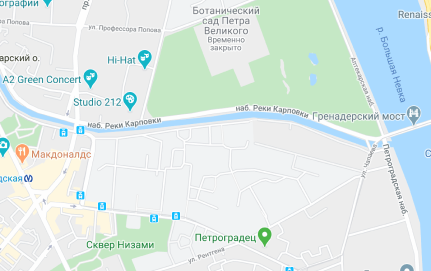
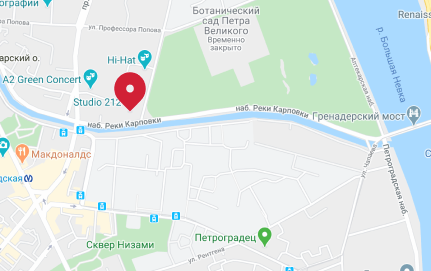
Добавит компонент кнопки, поправит карту

Changed region(s): [[0.2413, 0.2657, 0.3619, 0.4133]]

diff --git a/src/components/article/article.jsx b/src/components/article/article.jsx
@@ -2,6 +2,7 @@ import React from 'react';
 import cn from 'classnames';
 import styles from './article.module.scss';
 import Slider from '../slider/slider';
+import Button from '../button/button';
 
 function Article() {
   const articleContainer = cn('container', styles.section);
@@ -11,7 +12,7 @@ function Article() {
       <h2 className='visually-hidden'>Основная информация</h2>
       <article className={styles.article}>
         <div className={styles.left}>
-          <Slider />
+          <Slider/>
         </div>
         <div>
           <h3 className={styles.title}>Марпех 11</h3>
@@ -25,7 +26,10 @@ function Article() {
             <span className={styles.newPrice}>2 300 000 ₽</span>
             <span className={styles.oldPrice}>2  400 000 ₽</span>
           </div>
-          <button className={styles.redButton} type='button'>Оставить заявку</button>
+          <div className={styles.links}>
+            <Button red className={styles.button} type='button'>Оставить заявку</Button>
+            <Button white href='/#' className={styles.button}>В кредит от 11 000 ₽</Button>
+          </div>
         </div>
       </article>
     </section>

diff --git a/src/components/tabs/tabs.jsx b/src/components/tabs/tabs.jsx
@@ -2,7 +2,7 @@ import React from 'react';
 import styles from './tabs.module.scss';
 import cn from 'classnames';
 import TabBar from '../tab-bar/tab-bar';
-import TabBarItem from '../tab-bar-item/tab-bar-item';
+import TabItem from '../tab-item/tab-item';
 import Features from '../features/features';
 import Reviews from '../reviews/reviews';
 import Contacts from './../contacts/contacts';
@@ -14,15 +14,15 @@ function Tabs() {
     <section className={sectionClass}>
       <h2 className='visually-hidden'>Дополнительная информация</h2>
       <TabBar>
-        <TabBarItem label={'Характеристики'}>
+        <TabItem label={'Характеристики'}>
           <Features/>
-        </TabBarItem>
-        <TabBarItem label={'Отзывы'}>
+        </TabItem>
+        <TabItem label={'Отзывы'}>
           <Reviews/>
-        </TabBarItem>
-        <TabBarItem label={'Контакты'}>
+        </TabItem>
+        <TabItem label={'Контакты'}>
           <Contacts/>
-        </TabBarItem>
+        </TabItem>
       </TabBar>
     </section>
   );

diff --git a/src/components/button/button.jsx b/src/components/button/button.jsx
@@ -1,0 +1,47 @@
+import React from 'react';
+import styles from './button.module.scss';
+import cn from 'classnames';
+import PropTypes from 'prop-types';
+
+function Button({
+  children, red, white, className, onClick, disabled, ...attrs
+}) {
+  const buttonClass = cn(
+    styles.button,
+    red && styles.red,
+    white && styles.white,
+    className,
+  );
+  const Tag = attrs.href ? 'a' : 'button';
+
+  return (
+    <Tag
+      {...attrs}
+      className={buttonClass}
+      onClick={onClick}
+      disabled={disabled}
+    >
+      {children}
+    </Tag>
+  );
+}
+
+Button.propTypes = {
+  children: PropTypes.node,
+  red: PropTypes.string,
+  className: PropTypes.string,
+  onClick: PropTypes.func,
+  disabled: PropTypes.bool,
+  white: PropTypes.string,
+};
+
+Button.defaultProps = {
+  children: 'button',
+  red: false,
+  white: false,
+  className: '',
+  onClick: () => {},
+  disabled: false,
+};
+
+export default Button;

diff --git a/src/components/article/article.module.scss b/src/components/article/article.module.scss
@@ -98,24 +98,32 @@
 }
 
 .oldPrice {
+  position: relative;
   color: var(--gray-2);
   font-size: 20px;
   line-height: 27px;
   letter-spacing: 0.6px;
+
+  &::before {
+    content: '';
+    position: absolute;
+    top: 33%;
+    left: 50%;
+    width: 120px;
+    height: 1px;
+    background-color: var(--gray-2);
+    transform: rotate(-5deg) translate(-50%, -50%);
+  }
 }
 
-.redButton {
-  padding: 17px 20px 17px 21px;
-  margin-left: -3px;
+.button {
+  margin: 0 0 15px -3px;
+}
 
-  font-weight: 600;
-  font-size: 14px;
-  line-height: 19px;
-  text-align: center;
-  letter-spacing: 1.2px;
-  text-transform: uppercase;
-  color: var(--white);
-  background-color: var(--red);
-  border: none;
-  cursor: pointer;
+.links {
+  display: flex;
+  flex-direction: column;
+  align-items: flex-start;
+  flex-wrap: wrap;
+  height: 250px;
 }

diff --git a/src/components/reviews/reviews.jsx b/src/components/reviews/reviews.jsx
@@ -3,6 +3,7 @@ import styles from './reviews.module.scss';
 import Review from '../review/review';
 import Modal from '../modal/modal';
 import {useSelector} from 'react-redux';
+import Button from './../button/button';
 
 function Reviews() {
   const [modalState, setModalState] = useState(false);
@@ -14,13 +15,14 @@ function Reviews() {
   return (
     <div className={styles.wrapper}>
       <h3 className='visually-hidden'>Комментарии</h3>
-      <button
+      <Button
+        white
         type='button'
         className={styles.button}
         onClick={handleModalState}
       >
         Оставить отзыв
-      </button>
+      </Button>
       <ul className={styles.list}>
         {
           reviews.map((review) => <Review review={review} key={review.id}/>)

diff --git a/src/components/tab-nav/tab-nav.jsx b/src/components/tab-nav/tab-nav.jsx
@@ -1,9 +1,9 @@
 import React from 'react';
 import PropTypes from 'prop-types';
-import styles from './tab-bar-nav.module.scss';
+import styles from './tab-nav.module.scss';
 import cn from 'classnames';
 
-function TabBarNav({ navLabel, activeTab, onChangeActiveTab }) {
+function TabNav({ navLabel, activeTab, onChangeActiveTab }) {
 
   return (
     <button
@@ -16,15 +16,15 @@ function TabBarNav({ navLabel, activeTab, onChangeActiveTab }) {
   );
 }
 
-TabBarNav.propTypes = {
+TabNav.propTypes = {
   navLabel: PropTypes.string,
   activeTab: PropTypes.string,
   onChangeActiveTab: PropTypes.func,
 };
 
-TabBarNav.defaultProps = {
+TabNav.defaultProps = {
   navLabel: 'Tab',
   onChangeActiveTab: () => {},
 };
 
-export default TabBarNav;
+export default TabNav;

diff --git a/src/components/tab-item/tab-item.jsx b/src/components/tab-item/tab-item.jsx
@@ -2,9 +2,9 @@ import React from 'react';
 import classNames from 'classnames';
 import PropTypes from 'prop-types';
 
-function TabBarItem({children, label, activeTab, ...attrs}){
+function TabItem({children, label, activeTab, ...attrs}){
   const classes = classNames(
-    'tab-bar-item',
+    'tab-item',
     {active: activeTab === label},
   );
 
@@ -15,15 +15,15 @@ function TabBarItem({children, label, activeTab, ...attrs}){
   );
 }
 
-TabBarItem.propTypes = {
+TabItem.propTypes = {
   label: PropTypes.string.isRequired,
   children: PropTypes.node,
   activeTab: PropTypes.string,
 };
 
-TabBarItem.defaultProps = {
+TabItem.defaultProps = {
   children: null,
   activeTab: '',
 };
 
-export default TabBarItem;
+export default TabItem;

diff --git a/src/components/header/header.jsx b/src/components/header/header.jsx
@@ -1,8 +1,8 @@
 import React from 'react';
-import Logo from '../logo/logo';
 import SiteMenu from '../site-menu/site-menu';
 import styles from './header.module.scss';
 import cn from 'classnames';
+import logo from '../../img/logo.svg';
 
 const headerButtons = [
   'Автомобили',
@@ -18,7 +18,9 @@ function Header() {
     <header className={styles.header}>
       <div className={headerContainer}>
         <nav className={styles.nav}>
-          <Logo/>
+          <div className={styles.logo}>
+            <img src={logo} alt="Логотип"/>
+          </div>
           <SiteMenu buttons={headerButtons} className={styles.item}/>
         </nav>
       </div>

diff --git a/src/components/button/button.module.scss b/src/components/button/button.module.scss
@@ -1,0 +1,33 @@
+.button {
+  display: inline-block;
+  padding: 17px 20px 17px 21px;
+  font-weight: 600;
+  font-size: 14px;
+  line-height: 19px;
+  text-align: center;
+  letter-spacing: 1.2px;
+  text-transform: uppercase;
+  border: none;
+  cursor: pointer;
+}
+
+.red {
+  color: var(--white);
+  background-color: var(--red);
+
+  &:hover {
+    background-color: var(--red-3);
+  }
+}
+
+.white {
+  color: var(--red);
+  background-color: var(--white);
+  border: 1px solid var(--red);
+  padding: 16px 23px;
+
+  &:hover {
+    background: var(--red);
+    color: var(--white);
+  }
+}

diff --git a/src/components/map/yandex-map.jsx b/src/components/map/yandex-map.jsx
@@ -6,12 +6,14 @@ const Default = {
   CENTER_LOCATION: [59.96755, 30.322802],
   MARKER_LOCATION: [59.968367, 30.31457],
   ZOOM: 14,
+  WIDTH: '431px',
+  HEIGHT: '271px',
 };
 
 function YandexMap() {
   return (
     <YMaps>
-      <Map defaultState={{center: Default.CENTER_LOCATION, zoom: Default.ZOOM}}>
+      <Map width={Default.WIDTH} height={Default.HEIGHT} defaultState={{center: Default.CENTER_LOCATION, zoom: Default.ZOOM}}>
         <Placemark geometry={Default.MARKER_LOCATION} options={{iconLayout: 'default#image', iconImageHref: icon}}/>
       </Map>
     </YMaps>

diff --git a/src/components/site-menu/site-menu.jsx b/src/components/site-menu/site-menu.jsx
@@ -1,13 +1,16 @@
 import React from 'react';
 import PropTypes from 'prop-types';
 import styles from './site-menu.module.scss';
+import cn from 'classnames';
 
 function SiteMenu({buttons, className}) {
+  const liClass = cn(className, styles.item);
+
   return (
     <ul className={styles.list}>
       {
         buttons.map((button) => (
-          <li className={className} key={button}>
+          <li className={liClass} key={button}>
             <a href="/#">{button}</a>
           </li>
         ))

diff --git a/src/components/tab-bar/tab-bar.jsx b/src/components/tab-bar/tab-bar.jsx
@@ -1,5 +1,5 @@
 import React, {useState} from 'react';
-import TabBarNav from './../tab-bar-nav/tab-bar-nav';
+import TabNav from '../tab-nav/tab-nav';
 import PropTypes from 'prop-types';
 
 function TabBar({children}) {
@@ -23,7 +23,7 @@ function TabBar({children}) {
       <div>
         {
           getChildrenLabels(children).map((navLabel) => (
-            <TabBarNav
+            <TabNav
               key={navLabel}
               navLabel={navLabel}
               activeTab={activeTab}
